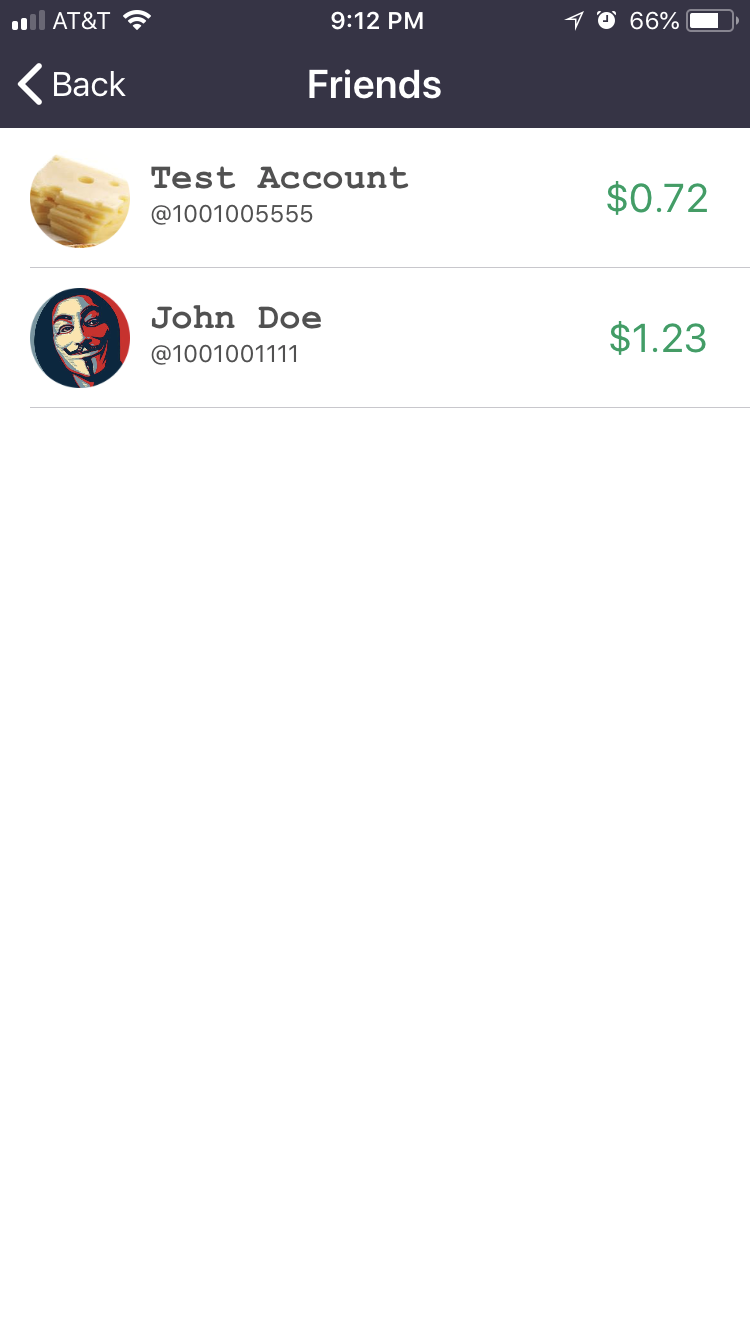
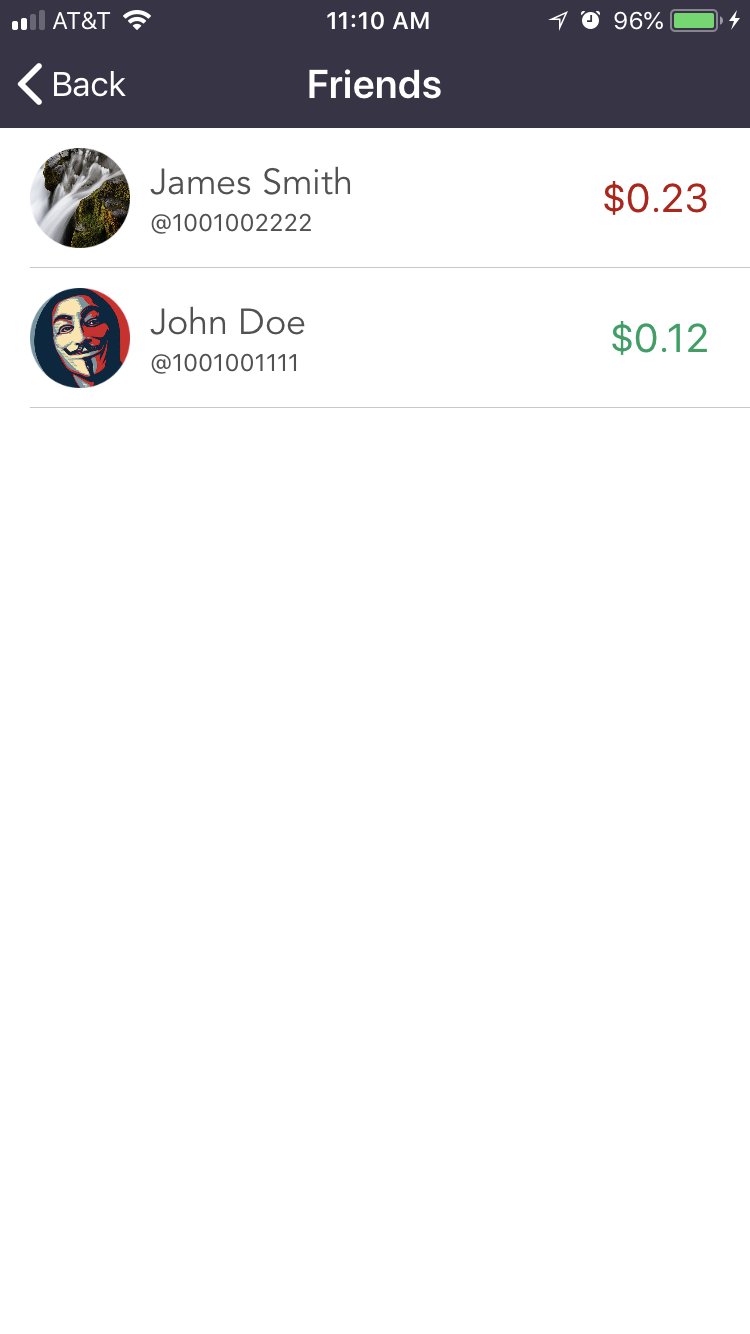
Fixes

diff --git a/Dracker/Cell Models/Table View/FriendsCell.swift b/Dracker/Cell Models/Table View/FriendsCell.swift
@@ -14,7 +14,7 @@ class FriendsCell: BaseTableViewCell {
     }()
     let name: UILabel = {
         let label = UILabel()
-        label.font = UIFont(name: "CourierNewPS-BoldMT", size: 18)!
+        label.font = UIFont(name: "Avenir-Book", size: 18)!
         label.textColor = .text_color
         return label
     }()

diff --git a/README.md b/README.md
@@ -37,7 +37,7 @@ An iOS app to track/manage debt. This app allows users to create transactions, a
 <kbd><img src="img/quick_actions.png" width="180" height="310"></kbd>&nbsp;&nbsp;&nbsp;&nbsp;<kbd><img src="img/notifications.png" width="180" height="310"></kbd>&nbsp;&nbsp;&nbsp;&nbsp;<kbd><img src="img/no_internet.png" width="180" height="310"></kbd>&nbsp;&nbsp;&nbsp;&nbsp;<kbd><img src="img/onboarding.png" width="180" height="310"></kbd>&nbsp;&nbsp;&nbsp;&nbsp;<kbd><img src="img/bank.png" width="180" height="310"></kbd>&nbsp;&nbsp;&nbsp;&nbsp;<kbd><img src="img/plaid.png" width="180" height="310"></kbd>
 
 #### SMS
-<kbd><img src="img/text-messages.png" width="180" height="310"></kbd>
+<kbd><img src="img/text-messages.png" width="180" height="310"></kbd>&nbsp;&nbsp;&nbsp;&nbsp;<kbd><img src="img/settle-text.png" width="180" height="310"></kbd>
 
 #### Email Templates
 <kbd><img src="img/welcome_email.jpg" width="200" height="310"></kbd>&nbsp;&nbsp;&nbsp;&nbsp;<kbd><img src="img/verified_email.png" width="180" height="310"></kbd>&nbsp;&nbsp;&nbsp;&nbsp;<kbd><img src="img/passwordReset_email.jpg" width="200" height="310"></kbd>&nbsp;&nbsp;&nbsp;&nbsp;<kbd><img src="img/emailChange_email.jpg" width="210" height="310"></kbd>
